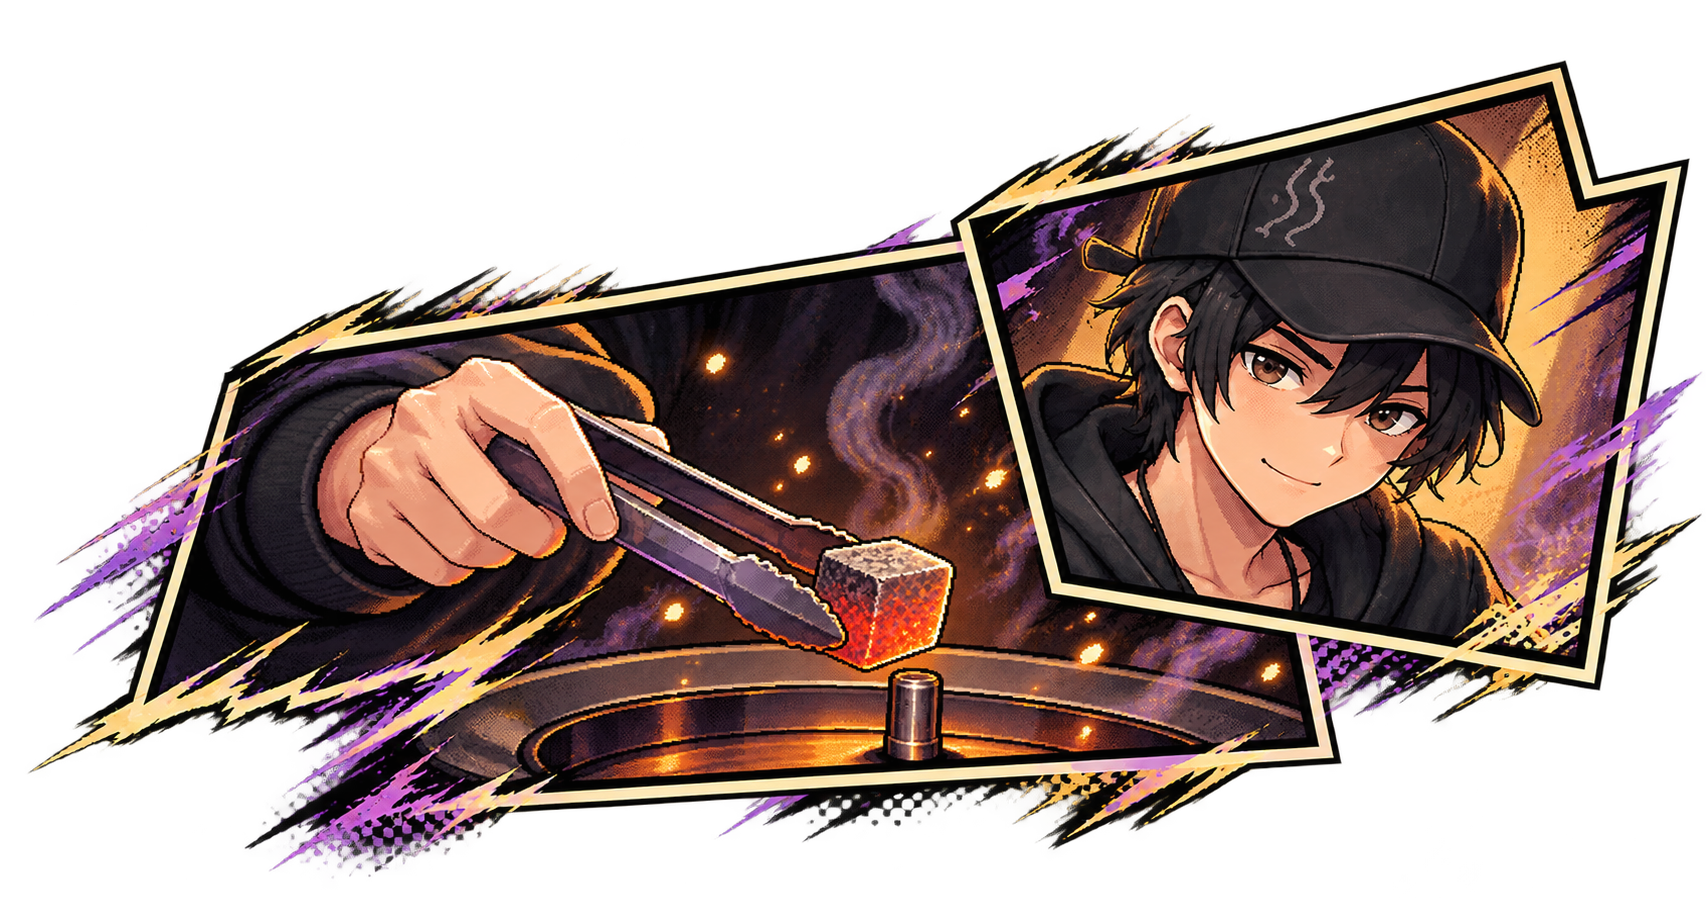
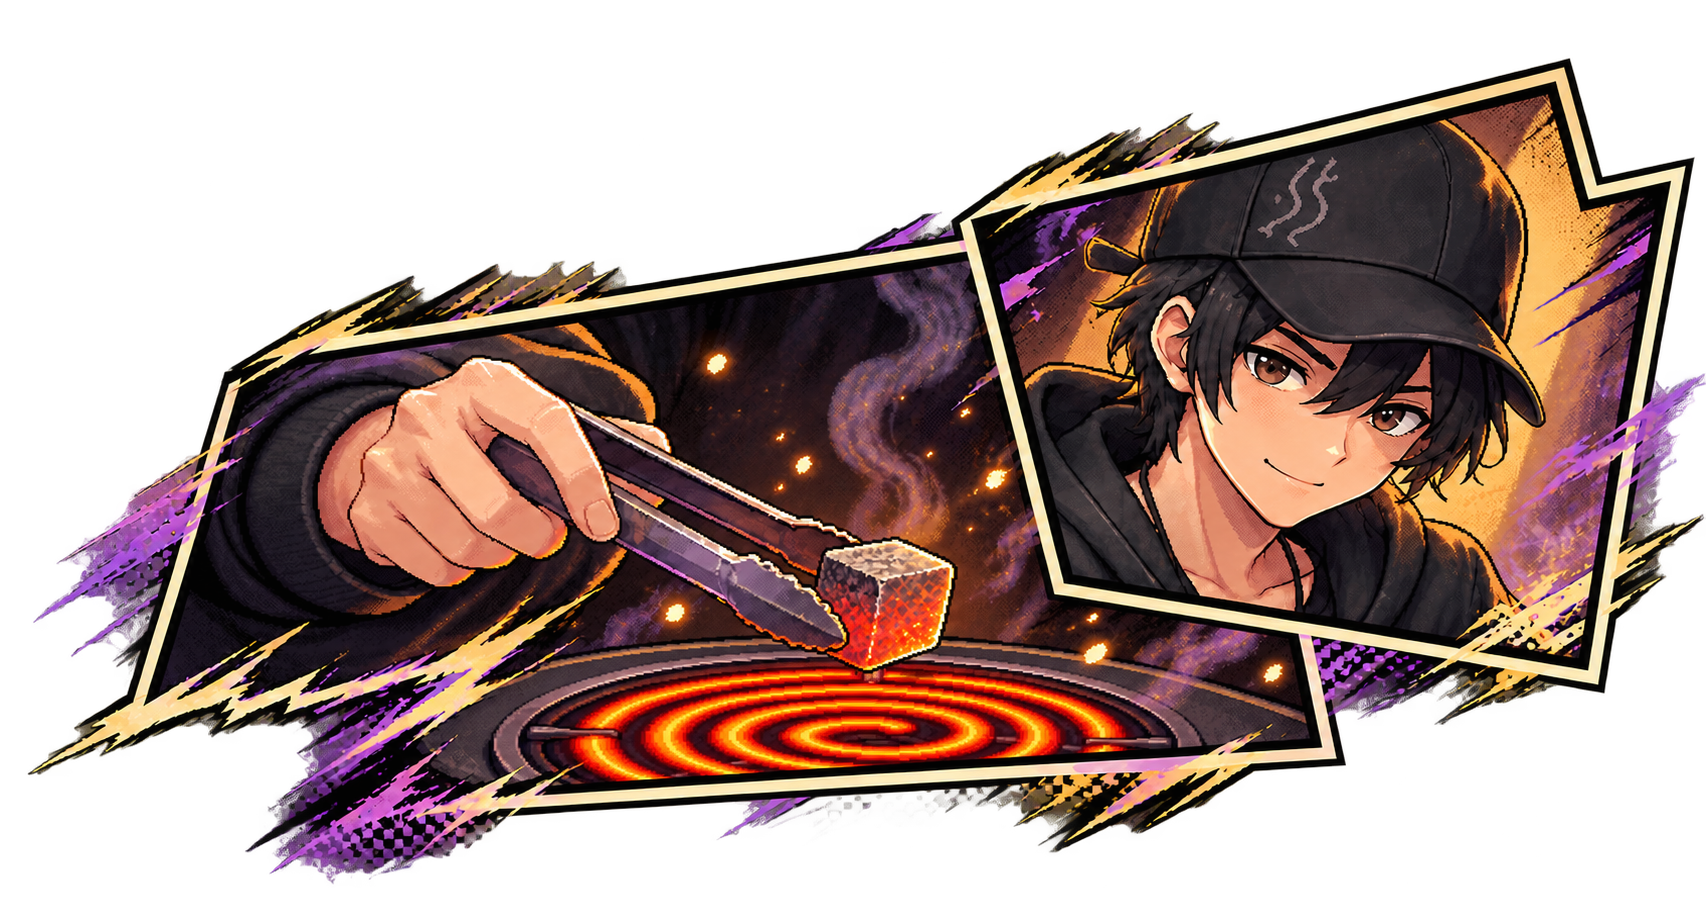
fix: remove raised center peg from cut-in stove illustration

diff --git a/docs/owner_requests.md b/docs/owner_requests.md
@@ -11,7 +11,7 @@
 | CI64 | 🔧 | 制作成功カットインの方向は2案目の漫画コマを好む。既存のはじめ・手元・紫のアクセントを保つ |
 | CI65 | 🔧 | ゲームを妨げないよう、空いている領域や画面端から一部だけ出す配置を複数試す |
 | CI66 | 🔧 | カットインを全画面に派手に出し、その間だけゲーム時間を止める案も試す |
-| CI67 | 📥 | 漫画コマのコンロ中央の突起を除き、平らな電熱コイルの形状へ修正する |
+| CI67 | 🔧 | 漫画コマのコンロ中央の突起を除き、平らな電熱コイルの形状へ修正する |
 
 CI62／63は未マージのPR #232で使用済みのIDとして保持。既存の背景保留BG01は素材未受領のため継続。
 
